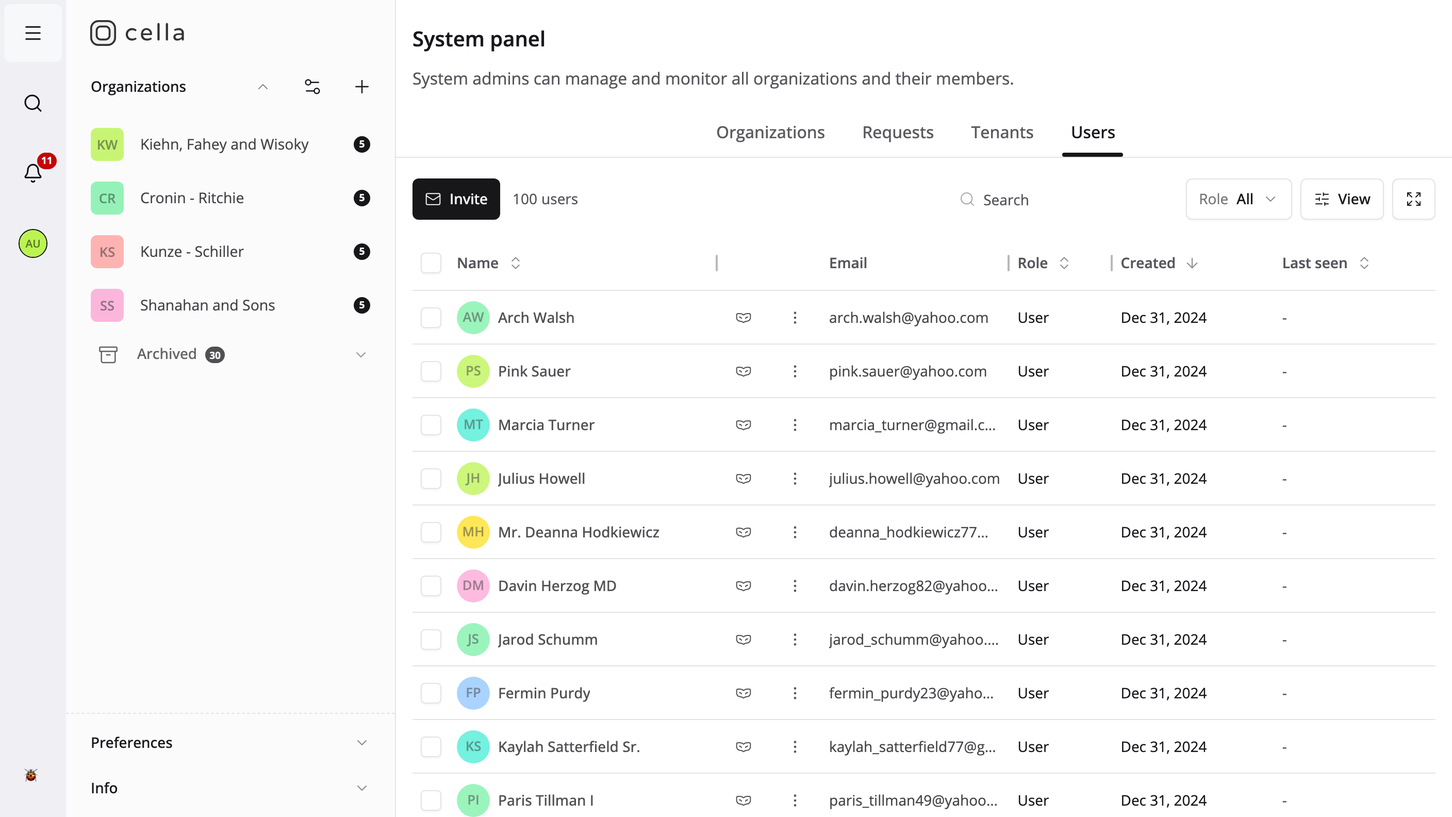
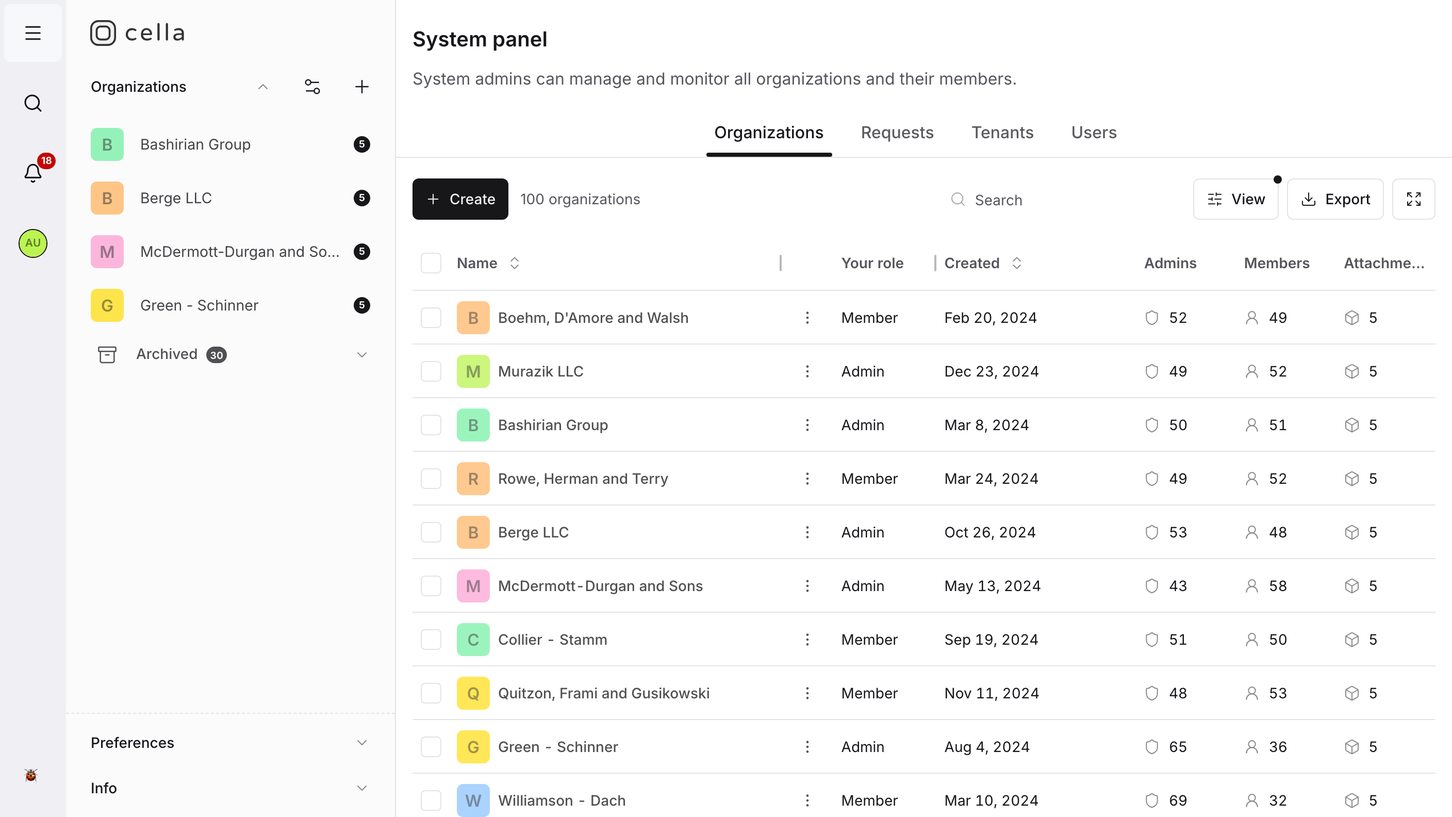
chore: tuning bundle: shorter sync engine and architecture docs, contact links underlined, a published org in shots
- SYNC_ENGINE.md and ARCHITECTURE.md: tightened prose, merged glossary rows, the data lifecycle told per kind of entity, stream events as a table.
- Screenshots: the org placeholder picks the first published organization the shot user administers (the seed makes the first one a draft, which opens under a "Publish" banner); the system shot opens on organizations. All marketing shots re-shot.
- Contact page: the contact method links use link-inline, the same always-on underline as the contact block on the legal pages. The map centers 40px below the middle so the address card above the marker fits.
- Glow button: inset replaces the hand-sized pseudo-element box.
- c:mfa_disabled.text names both factors MFA needs.

Migration-Note: none, the template's own shot list; an app's shots-config names its own pages and organization

diff --git a/frontend/src/modules/marketing/contact-page.tsx b/frontend/src/modules/marketing/contact-page.tsx
@@ -49,7 +49,7 @@ export function ContactPage() {
                 <p>
                   <a
                     href={method.link}
-                    className="group/external-link focus-effect link-decoration active:link-decoration-strong rounded-md p-0.5 text-sm hover:underline sm:text-base"
+                    className="group/external-link focus-effect link-inline rounded-md p-0.5 text-sm sm:text-base"
                     target={isWebPage ? '_blank' : undefined}
                     rel={isWebPage ? 'noreferrer' : undefined}
                   >

diff --git a/frontend/src/modules/marketing/about/glow-button.css b/frontend/src/modules/marketing/about/glow-button.css
@@ -3,10 +3,7 @@
   content: "";
   display: block;
   position: absolute;
-  top: -0.05rem;
-  left: -0.05rem;
-  width: calc(100% + 2px);
-  height: calc(100% + 2px);
+  inset: -1px;
   z-index: -2;
   border-radius: 100px;
   background: linear-gradient(45deg, rgba(151, 53, 255, 1) -10%, rgba(251, 204, 38, 1) 60%, rgba(210, 35, 82, 1) 100%);
@@ -21,10 +18,7 @@
 }
 
 .glow-button:is(a, button):active::after {
-  top: 0;
-  left: 0;
+  inset: 0;
   filter: none;
-  width: 100%;
-  height: 100%;
   background: var(--background);
 }

diff --git a/frontend/src/modules/common/contact-form/contact-form-map.tsx b/frontend/src/modules/common/contact-form/contact-form-map.tsx
@@ -78,6 +78,8 @@ function CompanyMap({ styleUrl }: CompanyMapProps) {
       attributionControl: { compact: true },
     });
     instance.touchZoomRotate.disableRotation();
+    // Draws the center 40px below the middle, so the address card above the marker fits inside the map
+    instance.setPadding({ top: 80 });
     new Marker({ element: markerNode }).setLngLat(coordinates).addTo(instance);
     setMap(instance);
     return () => instance.remove();

diff --git a/cella/SYNC_ENGINE.md b/cella/SYNC_ENGINE.md
@@ -19,14 +19,12 @@ Only product entities sync. A **channel** (`ChannelEntityType`) is a container: 
 | Concept | Meaning |
 | --- | --- |
 | **Sequence** | One monotonic counter per organization, shared by all product entity types |
-| **Path** | Root-first channel ID path from a row's ancestor ids. Every subtree is a path prefix. |
-| **Subtree** | A channel node and every row at or below it, identified by the node's path prefix |
+| **Path** | Root-first channel ID path of a row. A **subtree** (a channel and everything below it) is a path prefix. |
 | **Home** | Deepest non-null channel ancestor of a product row, with organization as fallback |
-| **Frontier** | Newest sequence position in a channel summary. It only moves forward. |
-| **Summary** | Frontier, counts, and timestamps denormalized onto a channel row, so one read answers for a subtree |
+| **Summary** | Frontier, counts, and timestamps on a channel row, so one read answers for a subtree |
+| **Frontier** | Newest sequence position in a summary. It only moves forward. |
 | **View** | The slice of the stream a client tracks (prefixes, entity types, depth, cursor). The unit catchup authorizes and answers. |
-| **Cursor** | Latest sequence position a view has ingested |
-| **Stream cursor** | ID of the last activity a connection received. Sent back in the catchup request; the server's `offset` event tells the client to start catchup. |
+| **Cursor** | Latest sequence position a view has ingested. The **stream cursor** is the last activity a connection received. |
 | **Range fetch** | Ordinary list request bounded by `afterSeq` and `untilSeq` |
 | **Tombstone** | Soft-deleted row that remains fetchable for the deleted-items period, so absent clients learn the deletion ([Data lifecycle](./ARCHITECTURE.md#data-lifecycle)) |
 | **`stx`** | Envelope on every product write (mutation ID, source ID, per-field HLC timestamps) for merge arbitration and echo recognition |
@@ -35,12 +33,12 @@ Only product entities sync. A **channel** (`ChannelEntityType`) is a container: 
 
 Renaming attachment `a42` inside `org1`:
 
-1. The tab optimistically patches every cached query containing `a42` and sends the update: `ops` carries the changed fields, `stx` the attempt ID and scalar field timestamps.
-2. The API stamps every changed scalar with a fresh server timestamp, applies the write, drops its cached detail of the row and returns the authoritative row. Only a replayed offline write is arbitrated by its own timestamps ([Merge metadata](#merge-metadata)). The initiating cache reconciles against the row.
-3. Postgres commits to the WAL. The CDC worker, in commit order, records the audit activity, reserves the next organization sequence position, stamps the row, and updates channel summaries.
-4. The worker sends the change to the API over the internal WebSocket. The API invalidates its detail cache and hands the change to the stream dispatcher.
+1. The tab optimistically patches every cached query containing `a42` and sends the update: `ops` carries the changed fields, `stx` the attempt ID and field timestamps.
+2. The API stamps the changed fields with a server timestamp, applies the write and returns the authoritative row, which the tab's cache reconciles against.
+3. Postgres commits to the WAL. The CDC worker, in commit order, records the audit activity, stamps the row with the next organization sequence position and updates channel summaries.
+4. The worker sends the change to the API over the internal WebSocket. The API drops its cached detail and dispatches the change.
 5. Dispatch checks the full row with the permission engine used by REST reads. Allowed subscribers receive an SSE notification with entity ID, path, sequence range, and `stx`.
-6. The originating tab recognizes its `sourceId` in a single-row notification and patches only cached `stx`. Other clients, and a tab whose own edit arrived in a batch, fetch the notified range through the list endpoint and patch their caches.
+6. The originating tab recognizes its own echo and patches only `stx`. Other clients fetch the notified range through the list endpoint and patch their caches.
 
 Reconnect uses the same path: cursor `3` and frontier `7` become `afterSeq=3&untilSeq=7`, and the cursor advances to `7` only after ingest.
 
@@ -48,7 +46,7 @@ Reconnect uses the same path: cursor `3` and frontier `7` become `afterSeq=3&unt
 
 ### Ordering
 
-The CDC worker records changes in commit order, and commit order is sequence order across product types. In one transaction it stamps product rows with the next sequence positions of their organization and updates the channel summaries. A change that is delivered again changes none of them. Notifications go out per audience: the rows of one type under one path. How the worker does it: [CDC worker](../cdc/README.md#normal-flow). The keys of `channel_counters`: [Counter keys](../cdc/README.md#counter-keys).
+The CDC worker records changes in commit order, which is sequence order across product types. In one transaction it stamps rows with their organization's next sequence positions and updates the channel summaries; a change delivered again changes none of them. Notifications go out per audience: the rows of one type under one path ([CDC worker](../cdc/README.md#normal-flow)).
 
 ### Drafts
 
@@ -59,7 +57,7 @@ Product tables that opt into drafts use a PostgreSQL publication row filter:
 - Draft creates, edits, and deletes never reach the worker.
 - Soft-deleting a published row flows as an update tombstone.
 
-Every channel table has `publishedAt` too, with the same meaning (null is a draft) and no publication filter: a draft channel records invitations and holds their mail until publish, and it shows only to its own members and to a caller who manages it from above, in a list and by id ([Permissions](./PERMISSIONS.md#enforcement-paths)). The stamp itself is described under [Row stamps](./AGENTS.md#coding-patterns).
+Channels have `publishedAt` with the same meaning and no publication filter: a draft channel shows only to its members and to those who manage it from above ([Permissions](./PERMISSIONS.md#enforcement-paths)).
 
 ### Moves
 
@@ -87,7 +85,7 @@ The client derives its views from the user's memberships and the policy matrix b
 
 ### Notifications
 
-Only the user's own membership changes are streamed: a create or delete invalidates the channel list of that type and the user's memberships, an update invalidates the organization's member lists and refreshes the user. Other members' changes reach a client through the catchup signal. Product notifications have four shapes:
+Only the user's own membership changes are streamed, and they invalidate that user's channel lists and memberships. Other members' changes arrive through catchup. Product notifications have four shapes:
 
 | Shape | Detection | Behavior |
 | --- | --- | --- |
@@ -96,21 +94,17 @@ Only the user's own membership changes are streamed: a create or delete invalida
 | Delete-style removal | `action: 'delete'` | Mark the detail stale and invalidate scoped lists. No sync-visible row remains to fetch. |
 | Move-out | `action: 'moveOut'` | Remove the row from caches and unseen tracking immediately |
 
-A single-row, non-delete notification carrying this tab's `stx.sourceId` is an echo: the tab patches only `stx`. A batch is fetched whoever wrote it. The worker batches per audience and sends an audience's single row as a single-row notification, so an edit stays an echo when other organizations' edits share its flush.
+A single-row notification carrying this tab's `stx.sourceId` is an echo: the tab patches only `stx`. A batch is fetched whoever wrote it, so the worker sends an audience's lone row as a single-row notification even when other edits share its flush.
 
 ### Catchup
 
-Catchup runs on every connection before the stream goes live: the client opens SSE, waits for the server's `offset` marker, then posts its cursor and declared views. The server answers each view with a status, and for `ok` views the newest frontier and count. The client declares a view for every organization the user is a member of. A view without a cursor (a first connection, an organization joined since) stores the frontier as its baseline and refetches what it has cached of that organization: rows read before the stream was live are not vouched for by the frontier. Route loaders own initial data. A view behind its frontier hands the gap to the fetch prioritizer; its cursor advances when the gap is ingested, when nothing of it is cached, or when the fetch gives up to an invalidation.
+Catchup runs on every connection before the stream goes live: the client opens SSE, waits for the server's `offset` marker, then posts its stream cursor and a view per organization the user belongs to. Each view gets a status, and an `ok` view its frontier and count. A view without a cursor (a first connection, a newly joined organization) takes the frontier as its baseline and refetches what it has cached of that organization, since rows read before the stream was live are not covered by it. A view behind its frontier hands the gap to the fetch prioritizer, and its cursor advances once the gap is ingested or invalidated.
 
 ### Fetch prioritization
 
-A notified range is queued, not fetched at once. The delay depends on how urgent the scope is for this client and how loaded the server is:
+A notified range is queued, not fetched at once. Its delay is this client's fixed slot within the server's `spreadWindow`, clamped to the range of the scope's tier:
 
-```text
-delay = clamp(tier minimum, this client's fixed slot within the server's spreadWindow, tier maximum)
-```
-
-- A viewed channel fetches immediately: at organization level the route decides, below it a mounted list query carrying the channel id.
+- A viewed channel fetches immediately.
 - A muted or archived channel fetches when opened; a catchup gap in it fetches in the background.
 - Every other channel fetches in the background between 2 and 30 seconds.
 
@@ -118,23 +112,23 @@ Apps derive per-user state from `query/realtime/sync-signals.ts`, never from que
 
 ### Freshness
 
-Synced product queries never go stale on their own while the stream is healthy: catchup owns their freshness. A failed stream, a delivery shortfall or a server whose CDC worker is away drops them to a five-minute stale time, until a clean catchup restores trust or the worker reads again ([REST fallback](#rest-fallback)). Other queries keep the global 30-second default, infinite while offline with `offlineAccess`.
+Synced product queries never go stale on their own while the stream is healthy: catchup owns their freshness. A failed stream, a delivery shortfall or an absent CDC worker drops them to a five-minute stale time until a clean catchup or the worker's return ([REST fallback](#rest-fallback)). Other queries keep the global 30-second default, infinite while offline with `offlineAccess`.
 
 ### Unseen tracking
 
-Unseen badges update from delivered rows with the server's own predicate (inside `seenWindowMs`, published, not deleted, not locally seen). An exact server recount replaces the estimate on staleness and after catchup, because cross-device seen marks never enter CDC. Seen-tracked types require unconditional channel read. Types with conditional row visibility keep endpoint counting.
+Unseen badges count delivered rows with the server's own predicate and are replaced by an exact server recount on staleness and after catchup, because seen marks from other devices never enter CDC. Only types every channel member may read are counted on the client; the others are counted by their endpoint.
 
 ### Embeddings
 
-A product can reference other products through an id array column: the **host** row holds the ids, each referenced row is **embedded**. Declare the relationship in `appConfig.productEmbeddings` (`hostProduct`, `embeddedProduct`, `hostColumn`). The template configures none. Host and embedded rows sync independently: an embedded row change carries a `PropagationHint` that patches the copies inside cached host rows.
+A product can reference other products through an id array column: the **host** row holds the ids, each referenced row is **embedded**. Declare the relationship in `appConfig.productEmbeddings`. Host and embedded rows sync independently, and an embedded row change carries a `PropagationHint` that patches the copies inside cached host rows.
 
-The engine keeps no count of how many hosts reference an embedded row. A count shown next to synced data, such as the number of tasks with a label, is derived on the client from the host lists the page already syncs, with a definition that matches what is loaded (all of a project's tasks, say, or only open ones). It then follows every change the moment the host rows do, the user's own edits and other users' alike, with no refetch. Where the hosts are not synced, or a decision must not rest on what this viewer can read (deleting an unused label), count on demand on the server.
+The engine keeps no reference counts. A count such as the tasks with a label is derived on the client from the synced host rows, so it follows every change with no refetch. Where the hosts are not synced, or a decision must not rest on what this viewer can read (deleting an unused label), count on the server.
 
 ## Writes
 
 Product mutations own optimistic updates and replay registration in their query module: `onMutate` patches matching caches, success merges the authoritative server row, failure rolls back where configured. Mutations run with React Query `networkMode: 'offlineFirst'`.
 
-An edit attempted offline retries network errors only, then pauses and enters the persisted replay queue. Server errors, any HTTP status, settle immediately without queueing. Restored paused mutations wait for the first catchup attempt before replay, or for the stream to stop reconnecting ([REST fallback](#rest-fallback)). Online writes never wait.
+An edit attempted offline retries network errors only, then pauses and enters the persisted replay queue. An HTTP error response settles at once. Restored paused mutations replay after the first catchup attempt, or once the stream stops reconnecting ([REST fallback](#rest-fallback)). Online writes never wait.
 
 ### Merge metadata
 
@@ -145,9 +139,9 @@ HLC: 1710500000123:0001:abcde
      unix millis : counter : source hash
 ```
 
-Comparison uses milliseconds, then counter, then source. Each tab advances its own clock. The server advances its clock from received timestamps before generating its own. This is deterministic last-writer-wins, not a causal clock.
+Comparison uses milliseconds, then counter, then source. Each tab advances its own clock, and the server advances its clock from received timestamps. This is deterministic last-writer-wins, not a causal clock.
 
-Only a replayed offline write (`stx.replayed`) is arbitrated by its client timestamps: they are its intent time, which lets it lose to an edit made elsewhere while it was queued. The query client sets the flag on the stx in the variables of every mutation that pauses, so a module's `mutationFn` sends the stx it was given and sets nothing. An online write is ordered by server arrival: the server replaces its field timestamps with one fresh server HLC, so a device clock behind the stored value cannot get its edit silently dropped.
+An online write is ordered by arrival: the server replaces its field timestamps with a fresh server HLC, so a device clock that runs behind cannot lose an edit. Only a replayed offline write (`stx.replayed`, set by the query client when a mutation pauses) is arbitrated by its client timestamps, its intent time, so it loses to an edit made elsewhere while it was queued.
 
 Value shape selects merge behavior:
 
@@ -162,65 +156,56 @@ Value shape selects merge behavior:
 }
 ```
 
-`fieldTimestamps` must name exactly the scalar operation keys. For a replay, the server omits scalar values that lose HLC comparison and returns the authoritative row, never a conflict response. An update reads its row with `FOR NO KEY UPDATE` (`getValidProduct` with `forUpdate`) before it merges, so overlapping updates of one row are resolved one after the other and each keeps the other's field timestamps. An app's own update operation has to pass `forUpdate` as well.
+`fieldTimestamps` names exactly the scalar operation keys. A replay's losing scalars are skipped and the server returns the authoritative row, never a conflict response. An update locks its row before it merges (`getValidProduct` with `forUpdate`), so overlapping updates resolve in turn; an app's own update operation passes `forUpdate` as well.
 
-Columns the server derives from a write stay outside the merge: the attachment `keywords`, re-derived from the description in `update-attachment.ts`, and an app's own audit stamps. They are written in the same transaction as the resolved values but never enter `stx.fieldTimestamps` or `stx.changedFields`, the columns the CDC worker reports as changed: they are not operations and carry no HLC. Only `updatedAt` joins `changedFields`, which is how the CDC worker tells a user edit from its own writes. The client runs the same description derivation in its collaborative cache patches, registered per type with `registerDescriptionDerivation`. A column the client does not derive stays out of that registration and reaches the cache with the server's rows: an app's own keyword index, when its search needs more than the 900 characters `deriveDocument` keeps in `keywords`.
+Columns the server derives from a write, such as the attachment `keywords` and audit stamps, are written in the same transaction but carry no HLC and stay out of `fieldTimestamps` and `changedFields`. Only `updatedAt` joins `changedFields`, which is how the CDC worker tells a user edit from its own writes.
 
 ### Paused writes
 
-Paused mutations persist to IndexedDB and survive a reload, so mutation variables must carry all routing data. Hook closures no longer exist at replay. The attachment module is the reference: mutation functions are registered as replay defaults, and `stx` is minted at intent time and stored in the variables so a replay reuses the mutation ID and field timestamps.
+Paused mutations persist to IndexedDB and survive a reload, so their variables carry everything a replay needs: hook closures are gone by then. `stx` is minted at intent time and stored with them, so a replay reuses its mutation ID and field timestamps. The attachment module is the reference.
 
-A product's three mutations carry one shape each, whatever the product: a create its rows under `data`, an update one `id` with its `ops`, a delete its rows under `rows`. The queue helpers read a paused mutation through those shapes: an edit of a row whose create is still queued folds into that create when the create body takes every field it names and stays an update behind it otherwise, and a remote change of a row with a pending create, update or delete is kept from the cache until that mutation settles. A delete the server refuses puts its rows back and reads the list again.
+A product's create, update and delete each carry one shape (rows under `data`, an `id` with `ops`, rows under `rows`), so the queue can reason about pending work: an edit of a row whose create is still queued folds into that create, a remote change of a row with a pending mutation is kept from the cache until it settles, and a delete the server refuses puts its rows back.
 
-A paused mutation outlives the reload that brings a new bundle. When a bundle changes the shape of a mutation's variables it declares a version and an upgrade for that mutation. Each stored mutation carries the version of its shape, and a queue stored under an older version is rewritten as it is restored, before the lenses change the rows it holds. A queued mutation this bundle cannot read (no upgrade knows it, or a newer bundle stored it) moves to the quarantine and is never replayed.
+A paused mutation can outlive the bundle that queued it. A bundle that changes a mutation's shape declares a version and an upgrade; an older stored mutation is upgraded on restore, and one no upgrade can read is quarantined and never replayed. Mutation defaults must exist before restore, so a product's module file imports its query module; a mutation restored without them fails with a console warning.
 
-Mutation defaults and versions reach the mutations restored after them, not the ones restored before: a mutation hydrated before its defaults exist replays without a mutation function and fails. The module that registers them therefore has to load with the entry: a product module's own module file imports it, and a restored mutation without a mutation function shows as a warning in the console.
-
-Idempotency is operation-specific: a product create runs `checkIdempotency(ctx, table, ids)` with the ids the client gave its rows, which returns the caller's own rows under those ids in the request scope, so a replay finds its rows as soon as the first attempt committed, whatever the CDC worker has done; the create inserts only the other items. An id another actor learned finds nothing. Update and delete do not.
+A replayed create is idempotent by its row ids: the server returns the caller's own rows already committed under those ids and inserts the rest. Update and delete have no such check.
 
 ## Resilience
 
-The REST API and the database work whatever the CDC worker does: a write commits and a read answers while the worker is down, reading again or rebuilding. A client without live sync is a REST client ([REST fallback](#rest-fallback)). The failure handling behind the sync engine has three levels and no more ([CDC worker](../cdc/README.md#failure-and-recovery)): the core records a change once, whatever fails is read again from the replication slot, and when the WAL cannot help the worker rebuilds its books and every client refetches.
+The REST API and the database work whatever the CDC worker does, and a client without live sync is a REST client. Failure handling has three levels and no more: the core records a change once, whatever fails is read again from the replication slot, and when the WAL cannot help the worker rebuilds its books and every client refetches ([CDC worker](../cdc/README.md#failure-and-recovery)).
 
 ### REST fallback
 
-Sync is a layer on an ordinary REST app, so losing the stream costs live updates and nothing else. Every read and write goes through the API with or without it, and a write updates the cache of the tab that made it from the row the API returns.
+Losing the stream costs live updates and nothing else: every read and write goes through the API either way. A stream counts as down when it errors, when the server ends it, or after 75 seconds without a `ping` (sent every 30). While it is down, a client:
 
-A stream counts as down when it errors, when the server ends it, and when nothing arrived on it for 75 seconds: the server sends a `ping` event every 30, so a connection that is open and dead (a proxy, a lost path) is noticed. While its stream is down, a client:
+1. Gives its synced queries a five-minute stale time, so lists refetch when opened ([Freshness](#freshness)).
+2. Reconnects with backoff from 5 to 30 seconds. After three failures it waits a minute, then reconnects once the tab is visible and the API is healthy.
+3. Runs catchup on the new connection, fetches what its cursors miss and trusts its queries again ([Catchup](#catchup)).
 
-1. Stops trusting its synced queries. They get a five-minute stale time and refetch as stale queries do: a list when it is opened, everything on screen when the browser comes back online ([Freshness](#freshness)).
-2. Reconnects after 5 seconds, doubling to 30, with up to 2 seconds of jitter. Three failures in a row stop that for a minute; after it, the leader tab reconnects when it becomes visible and the API answers a health check.
-3. Runs catchup on the new connection, fetches what its cursors miss and trusts its queries again ([Catchup](#catchup)). The leader tab passes the answer to its follower tabs, and each fetches its own gap.
-
-One fetch can fall back as well. A notified range whose fetch keeps failing is given up after three tries and its lists are invalidated, so the next read is a plain list request. A fetch that returns fewer rows than announced does the same, keeps the cursor where it was and puts synced queries on the stale time until a clean catchup.
-
-The fallback has a second trigger, for a stream that is open and brings nothing: the server tells its streams when no CDC worker has been reading for a minute. While that lasts a client takes the first step above and only that one, a five-minute stale time with the stream left open. A restart, a deploy and a second read of a failed flush are shorter than the minute. What was missed arrives late and in order when the worker reads on. Collaborative descriptions fall back to HTTP on their own ([Yjs](#yjs)), and the server side of every failure is in [CDC worker](../cdc/README.md#failure-and-recovery).
+A range fetch that fails three times, or returns fewer rows than announced, is given up: its lists are invalidated and synced queries keep the stale time until a clean catchup. An open stream also falls back when no CDC worker has read for a minute, with step 1 only. Restarts and deploys take less than that minute, and what was missed arrives late and in order.
 
 ### What happens when
 
-A client that missed notifications while the books stayed right is repaired by its own catchup, its cursors against the frontiers. A client is made to refetch only when the books themselves were wrong. Nothing in this table needs a fourth mechanism.
+Missed notifications are repaired by the client's own catchup. Clients refetch everything only when the books themselves were wrong.
 
 | What happened | What a user sees | What repairs it | What is lost |
 | --- | --- | --- | --- |
-| A client's stream is down (network, a proxy, three failed connections) | The app works as a REST app: own writes work, lists refetch when opened once five minutes old | Reconnect and catchup ([REST fallback](#rest-fallback)) | Nothing |
-| The worker is down, or reading again after a failure | Own writes work; other users' changes arrive late and in order. After a minute lists refetch when opened once five minutes old | The worker reads on from the slot | Nothing |
-| The API restarts, or dies after taking a message from the worker | Streams drop and reconnect, at the latest after 75 seconds of silence | The client's catchup compares its cursors with the frontiers and fetches the gap, in every tab | Nothing durable. Mentions and push notifications of that moment |
-| A deploy overlap (`singleVM`) | Clients on the new API hear nothing until the slot moves | Their next notification or reconnect fetches the gap | Nothing |
-| A notification is lost inside the API while the stream stays open | That client lags until its next reconnect | The next catchup | Nothing durable |
-| The replication slot is gone or invalidated | Live updates stop until the worker restarts; then every client refetches once | A new slot and a rebuild; the generation moves | Activities and notifications of the rows changed while the slot was gone |
-| `channel_counters` is emptied (a truncate, a partial restore) | Every client refetches once | A rebuild from the tables | Nothing |
-| The daily check finds a counter wrong, or the worker restarts in the middle of a rebuild | Every client refetches once | A rebuild from the tables | Nothing |
-| One change can never be processed (a parse error, a transaction over 100,000 changes) | Live updates pause about a minute; then every client refetches once | After five reads the slot moves past the backlog and the books are rebuilt | Activities and notifications of that backlog |
-| The database is restored from a backup | As a lost slot | A new slot and a rebuild | Everything after the backup, as with any restore |
-| A device was away longer than the activity window | It refetches what it holds of each organization once | Its catchup starts over, as after a rebuild: the tombstones it missed may be gone | Nothing |
+| A client's stream is down | The app works as a REST app; lists refetch when opened once five minutes old | Reconnect and catchup | Nothing |
+| The worker is down or reading again | Other users' changes arrive late and in order; after a minute lists refetch as above | The worker reads on from the slot | Nothing |
+| The API restarts or loses a notification | Streams reconnect, at the latest after 75 seconds of silence | Catchup fetches the gap | Mentions and push notifications of that moment |
+| A deploy overlap (`singleVM`) | Clients on the new API hear nothing until the slot moves | The next notification or reconnect | Nothing |
+| The books are wrong (counters emptied, the daily check finds a difference, a rebuild interrupted) | Every client refetches once | A rebuild from the tables | Nothing |
+| The slot is lost or invalidated, or the database is restored from a backup | Live updates stop until the worker restarts; then every client refetches once | A new slot and a rebuild | Activities and notifications of rows changed meanwhile; with a restore, everything after the backup |
+| One change can never be processed | Live updates pause about a minute; then every client refetches once | The slot moves past the backlog and the books are rebuilt | Activities and notifications of that backlog |
+| A device was away longer than the activity window | It refetches what it holds of each organization once | Catchup starts over: missed tombstones may be gone | Nothing |
 
 ### Rebuilt books
 
-The counters, the sequence counter and the frontiers are the CDC worker's books. Whenever the worker rebuilt them it moves a generation on ([CDC worker](../cdc/README.md#verify-and-rebuild)), and the catchup answer carries that generation. A client that holds another one puts its view cursors back at 0 (the stream cursor stays), takes the frontiers of that catchup as new baselines, refetches the lists on screen at once and, after a random delay of up to ten seconds, everything else it has cached of the synced types; member queries of every organization are invalidated as well. The API ends open streams with `resync`, and each leader tab reconnects after its backoff of a few seconds. The leader passes every catchup answer to its follower tabs, so each puts its cursors back and refetches the same way.
+The counters, the sequence counter and the frontiers are the CDC worker's books. Every rebuild moves the sync generation on ([CDC worker](../cdc/README.md#verify-and-rebuild)), and the API ends open streams with `resync`. A client whose catchup answer carries a new generation resets its view cursors, takes the new frontiers as baselines, refetches the lists on screen at once and the rest of its synced cache after a random delay of up to ten seconds.
 
 ### One API process
 
-The worker hands every change to one API process, and that process holds every stream, drops its caches and ends the streams on a new generation. The sync engine is built for one API process per deployment: [Scaling](./ARCHITECTURE.md#scaling).
+The worker hands every change to one API process, and that process holds every stream. The sync engine is built for one API process per deployment: [Scaling](./ARCHITECTURE.md#scaling).
 
 ### Schema changes
 
@@ -228,19 +213,26 @@ Old tabs and old queued writes survive a wire-shape deploy through lenses: [Sche
 
 ### Multiple tabs
 
-The first tab to acquire the Web Lock becomes leader, owns SSE and runs catchup. It forwards each notification and each catchup answer through BroadcastChannel, and a follower processes both against its own cursors and its own cache, so it fills the same gaps the leader does. A follower runs no catchup of its own; its paused writes are released as soon as it listens. It has no stream to judge by either: the leader tells the other tabs whether its stream works and whether the server's worker reads, when that changes and when a tab opens, and a follower falls back on that word. A follower is promoted when the leader closes. All tabs can mutate. Each tab keeps its own paused-mutation queue.
+The first tab to acquire the Web Lock becomes leader: it owns SSE, runs catchup, and forwards each notification, each catchup answer and the health of its stream and the worker through BroadcastChannel. Followers apply them against their own cursors and cache, so they fill the same gaps. A follower is promoted when the leader closes. Every tab can mutate and keeps its own paused-mutation queue.
 
 ### Yjs
 
-The template collaborates on attachment descriptions through the Yjs relay (`services.yjs.enabled`); an app adds a product by registering a `yjsMaterializer`. With Yjs on, a description saves through the relay only, never as a REST write, so it never enters the replay queue. Relay, update log, compaction, materialization and what an editor does offline: [Yjs worker](../yjs/README.md).
+The template collaborates on attachment descriptions through the Yjs relay (`services.yjs.enabled`); an app adds a product by registering a `yjsMaterializer`. With Yjs on, a description saves through the relay only, never as a REST write, so it never enters the replay queue ([Yjs worker](../yjs/README.md)).
 
-The cache takes a Yjs-owned field, the description or a column derived from it (`registerYjsOwnedFields`), only from a server write of it. When a synced row carries the cached copy's `stx.fieldTimestamps` stamp for the field, the cached value stays, so a read that lags the relay cannot undo a collaborative patch. A create stamps no field, so a field neither row stamps counts as unwritten as well. A derived column has no stamp of its own and follows the description's.
+The cache takes a Yjs-owned field (the description and columns derived from it, `registerYjsOwnedFields`) only from a server write of that field. A synced row that carries the cached copy's field stamp leaves the cached value in place, so a read that lags the relay cannot undo a collaborative patch.
 
 ## Reference
 
 ### SSE wire
 
-Events: `offset` (the server's newest activity id, once after connect: the signal to post the catchup), `change` (one `StreamNotification`), `ping` (every 30 seconds: a client that hears nothing for 75 reconnects; its data is empty, or `worker_away` while no CDC worker has been reading for a minute), `error` (typed payload). The server ends a stream with `unauthorized` when the session behind it ended for good (sign-out, revoked from another session, evicted, expired, MFA turned on elsewhere, the account deleted, an impersonation that ended); the client then opens a 60-second circuit and reconnects after a visibility change that finds the API healthy (`forbidden` and `tenant_revoked` are reserved codes it treats the same way). `session_replaced` means the browser holds a newer session (a sign-in from the same browser, turning MFA on, stopping an impersonation), `access_changed` that the stream's system-admin reads changed, and `resync` that the server's sync books moved to another generation (a correction or a rebuild); the client reconnects on all three. The server checks every open stream's session again once a minute, which also catches endings on another instance.
+| Event | Meaning |
+| --- | --- |
+| `offset` | The server's newest activity id, once after connect: the signal to post the catchup |
+| `change` | One `StreamNotification` |
+| `ping` | Every 30 seconds. Its data is `worker_away` while no CDC worker has read for a minute |
+| `error` | Typed payload |
+
+The server ends a stream with `unauthorized` when its session ended for good (sign-out, revocation, expiry, MFA turned on elsewhere, account deletion, an ended impersonation); the client then waits until a visible tab finds the API healthy (`forbidden` and `tenant_revoked` are reserved and treated the same). `session_replaced` (the browser holds a newer session), `access_changed` (system-admin reads changed) and `resync` (a new generation) make the client reconnect. The server rechecks every open stream's session once a minute.
 
 ```typescript
 interface StreamNotification {
@@ -282,7 +274,7 @@ interface PropagationHint {
 
 The request carries a stream cursor and views `{ key, organizationId, prefixes, entityTypes, depth?, cursor }` (`depth`: `self` or `subtree`, default `subtree`). The response carries view answers, organization change summaries, the stream cursor, and the generation of the sync books.
 
-A stream subscription covers the organizations the user belongs to when it opens plus a per-user subscription for self-membership events. A membership in a new organization reaches the user there, and the client reconnects to subscribe to that organization and take its baselines.
+A stream subscribes to the organizations the user belongs to when it opens, plus the user's own membership events. A membership in a new organization makes the client reconnect to subscribe to it and take its baselines.
 
 ```typescript
 interface CatchupViewAnswer {
@@ -298,10 +290,10 @@ interface CatchupChangeSummary {
 }
 ```
 
-`signals.membership` is the organization's bump-only membership signal: every membership and invitation change in the organization moves it, and a client whose stored value differs invalidates its member queries.
+`signals.membership` moves with every membership and invitation change in the organization; a client whose stored value differs invalidates its member queries.
 
-`afterSeq=50&untilSeq=150` reads the rows stamped after position 50 up to and including 150, deleted rows included, in sequence order. Both bounds are required. A range read takes no search and no offset: a response capped by `limit` is a prefix of the range, and the next request starts after the last position received. A client that gets a row outside the range back treats the server as one that ignored it and invalidates its lists. Range fetches may carry `channelId` to narrow the read to one channel subtree. In hierarchies deeper than `organization -> channel`, a read covered by a `channelId` must AND a subtree predicate over the denormalized ancestor id columns on top of the permission-derived scope (`buildSubtreeCoverWhere`, `backend/src/db/utils/subtree-cover.ts`). Never fold the covering id into the permission scope, or an intermediate grant widens the read past the subtree.
+`afterSeq=50&untilSeq=150` reads the rows stamped after position 50 up to and including 150, deleted rows included, in sequence order. Both bounds are required, and a range read takes no search and no offset: a response capped by `limit` is a prefix of the range, and the next request starts after the last position received. A row returned outside the range means the server ignored it, and the client invalidates its lists. `channelId` narrows a range read to one subtree on top of the permission scope, never folded into it ([New entity](./ADD_ENTITY.md)).
 
 ### Detail cache
 
-The server keeps a TTL cache of enriched product detail responses (5,000 entries, 10 minutes). An entry is dropped by the API's own update or delete of the row (through the mutation bus, with a five-second hold on storing a read that started before it) and by every CDC message for the row; a read that started before a drop is never stored. Hits recheck permission, draft visibility, tenant and organization. Concurrent misses are fetched once. List fan-out bypasses it. A write outside the API process (the relay, a job) reaches the cache through its CDC message only.
+The server keeps a TTL cache of enriched product detail responses. The API's own write of a row and every CDC message for it drop its entry, and a read that started before a drop is never stored. A hit rechecks permission, draft visibility, tenant and organization. Concurrent misses fetch once, and lists bypass it.

diff --git a/cella/ARCHITECTURE.md b/cella/ARCHITECTURE.md
@@ -71,16 +71,16 @@ The permission engine lives in `shared/`, so the API and the optional Yjs relay 
 
 ## Data lifecycle
 
-A row is live, then deleted, then gone, and each step has one meaning:
+What a delete does depends on what is deleted:
 
-- **Deleted.** The row becomes a tombstone: hidden everywhere, and dropped by every device through sync. Its files and its collaborative document stay with it, so a system admin can still restore it with a script. The app has no restore.
-- **Gone.** After the deleted-items period, the nightly retention procedure (`apply_retention()`, run by pg_cron) removes the row. However a row leaves the database (that removal, a cascade from a deleted channel or organization, a hand-written `DELETE`), its delete trigger queues what it stored outside its table, and a job deletes those files and retires the collaborative document.
+- **Product**: becomes a tombstone, hidden everywhere and dropped by every device through sync, and is removed after the deleted-items period. Until then a system admin can restore it; the app has no restore.
+- **Organization**: its tenant is archived, as at the end of a contract. Everyone loses access at once, and after the archived period it goes with everything in it ([Tenant lifecycle](./MULTI_TENANCY.md#tenant-lifecycle)).
+- **Channel below the organization**: removed at once, with the channels and products in it.
+- **Resource** (session, token, device, invitation): swept nightly after its own period.
 
-The activity window bounds everything time-limited in sync: activity history, notifications, seen marks, and how long a device may stay away. A device that has not caught up within it starts over, dropping what it holds and reading it again. A tombstone lives longer than that window, so a device that kept up never misses a deletion.
+Whichever way a row leaves, the files and collaborative document it stored go after it. Sync keeps activity for the activity window, and a device away longer starts over. A tombstone outlives that window, so a device that keeps up never misses a deletion.
 
-Deleting an organization archives its tenant, and so does the end of a contract: everyone loses access at once, a system admin can still restore it, and after the archived period the organization goes with everything in it ([Tenant lifecycle](./MULTI_TENANCY.md#tenant-lifecycle)).
-
-Every period lives in `appConfig.retention`, the same for every tenant, and the privacy page states them. Tables that only collect rows (sessions, tokens, devices, requests, invitations) get a sweep rule in the same procedure. Backups and the buckets' object versions expire on their own schedule, so a removed row or file leaves them within their window as well.
+Every period lives in `appConfig.retention`, the same for every tenant, and the privacy page states them. Backups and bucket object versions expire on their own schedule.
 
 ## Contracts and operations
 
@@ -93,8 +93,6 @@ Tests cover generated contracts, permission parity, cross-scope access, database
 ## Scaling
 
 Cella runs one API process per deployment and scales up and apart, not out. Up: a bigger VM for the API and a bigger managed database. Apart: each worker (CDC, Yjs, OAuth, MCP, jobs) moves to a VM of its own when the API's VM gets busy, and each is a singleton: the CDC worker holds the one replication slot, the jobs worker the one scheduler. The client carries work too: it keeps its own cache, the sync engine notifies and lets clients fetch, and the server spreads those fetches over time.
-
-A second API process is not part of the design. The CDC worker hands every change to one API process over one socket, and that process holds every SSE stream, drops its caches on each change and ends the streams when the sync books move to a new generation. A second process would hear none of it: its clients would learn of changes only at reconnect, and its caches would go stale. Running the API on more than one process would need a bus between them for the worker's changes, and the infra has no option for it. A deploy overlap is the one moment two API processes exist; [Deployment](./DEPLOYMENT.md#rollout-strategies) says what that costs.
 
 ## Repository map
 
